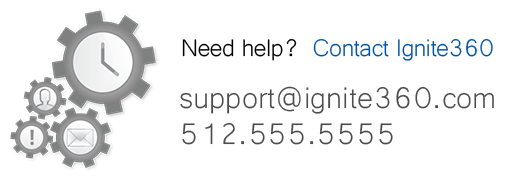
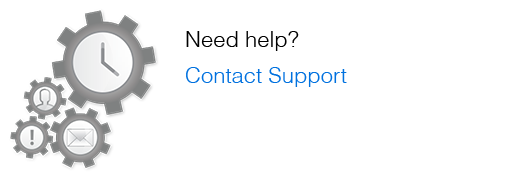
Support Dashboard Widget
Updated the the support dashboard widget to open the support center in
a new window. Also updated the support image.

diff --git a/wp-content/mu-plugins/inc/widgets.php b/wp-content/mu-plugins/inc/widgets.php
@@ -2,7 +2,7 @@
 
 // support dashboard widget
 function support_dashboard_widget() {
-	echo "<p><a href='#'><img src='/wp-content/mu-plugins/inc/images/need-help.png' style='max-width:100%;'></a></p>";
+	echo "<p><a href='http://support.ignite360.com/index.php?/Tickets/Submit' target='_blank'><img src='/wp-content/mu-plugins/inc/images/need-help.png' style='max-width:100%;'></a></p>";
 }
 function add_support_dashboard_widget() {
 	wp_add_dashboard_widget('support_dashboard_widget', 'Grove Support', 'support_dashboard_widget');
